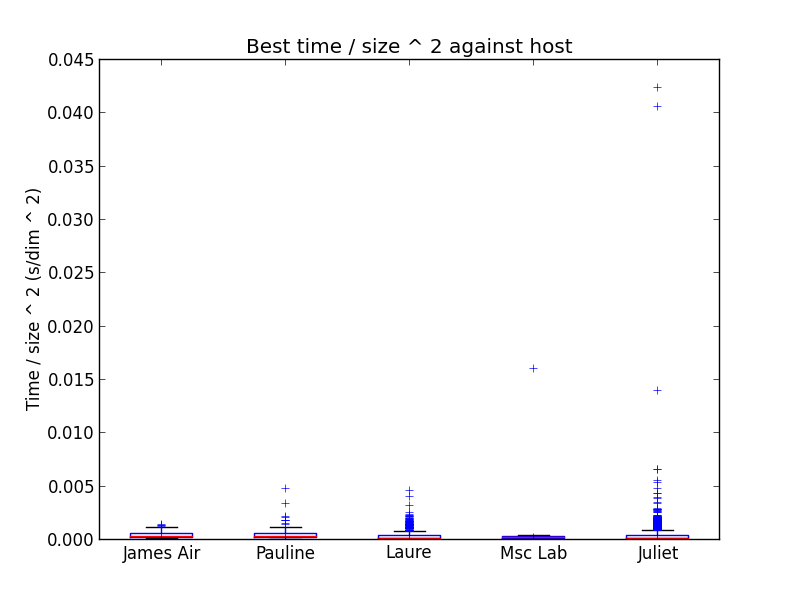
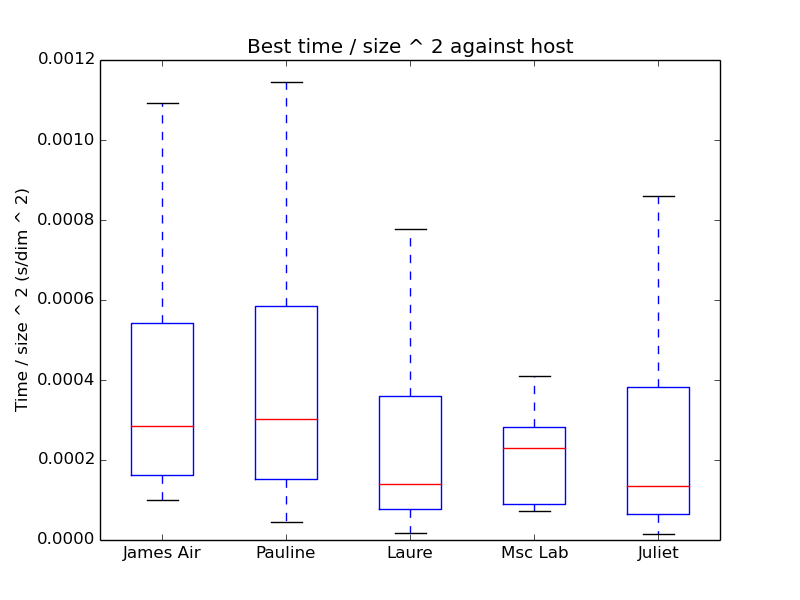
Removed outliers in plots

diff --git a/analysis.py b/analysis.py
@@ -55,7 +55,7 @@ if __name__ == '__main__':
     # plot box plot for time against size for lrs
 
     plt.figure()
-    plt.boxplot([[instance.lrs_time for instance in data if instance.size == k] for k in sizes])
+    plt.boxplot([[instance.lrs_time for instance in data if instance.size == k] for k in sizes], sym='')
     plt.xticks(range(min(sizes), max(sizes) + 1, 5))
     plt.ylabel('time (s)')
     plt.title("time against size (lrs)")
@@ -64,7 +64,7 @@ if __name__ == '__main__':
     # plot box plot for time against size for LCP
 
     plt.figure()
-    plt.boxplot([[instance.LCP_time for instance in data if instance.size == k] for k in sizes])
+    plt.boxplot([[instance.LCP_time for instance in data if instance.size == k] for k in sizes], sym='')
     plt.xticks(range(min(sizes), max(sizes) + 1, 5))
     plt.ylabel('time (s)')
     plt.title("time against size (LCP)")
@@ -73,7 +73,7 @@ if __name__ == '__main__':
     # plot box plot for time against size for enumeration
 
     plt.figure()
-    plt.boxplot([[instance.enum_time for instance in data if instance.size == k] for k in sizes])
+    plt.boxplot([[instance.enum_time for instance in data if instance.size == k] for k in sizes], sym='')
     plt.xticks(range(min(sizes), max(sizes) + 1, 5))
     plt.ylabel('time (s)')
     plt.title("time against size (enum)")
@@ -84,7 +84,7 @@ if __name__ == '__main__':
     plt.figure()
     plt.boxplot([[instance.lrs_time for instance in data],
                  [instance.LCP_time for instance in data],
-                 [instance.enum_time for instance in data]])
+                 [instance.enum_time for instance in data]], sym='')
     plt.xticks([1,2,3], ['lrs', 'lcp', 'enumeration'])
     plt.ylabel('time (s)')
     plt.title("time against approach")
@@ -94,7 +94,7 @@ if __name__ == '__main__':
 
     plt.figure()
     plt.boxplot([[instance.lrs_time for instance in data],
-                 [instance.LCP_time for instance in data]])
+                 [instance.LCP_time for instance in data]], sym='')
     plt.xticks([1,2], ['lrs', 'LCP'])
     plt.ylabel('Time (s)')
     plt.title("Time against approach")
@@ -104,7 +104,7 @@ if __name__ == '__main__':
 
     plt.figure()
     plt.boxplot([[instance.lrs_time / instance.size for instance in data],
-                 [instance.LCP_time / instance.size for instance in data]])
+                 [instance.LCP_time / instance.size for instance in data]], sym='')
     plt.xticks([1,2], ['lrs', 'LCP'])
     plt.ylabel('Time / size (s/dim)')
     plt.title("Time / size against approach")
@@ -114,7 +114,7 @@ if __name__ == '__main__':
 
     plt.figure()
     plt.boxplot([[instance.lrs_time / (instance.size ** 2) for instance in data],
-                 [instance.LCP_time / (instance.size ** 2) for instance in data]])
+                 [instance.LCP_time / (instance.size ** 2) for instance in data]], sym='')
     plt.xticks([1,2], ['lrs', 'LCP'])
     plt.ylabel('Time / size ^ 2 (s/dim ^ 2)')
     plt.title("Time / size ^ 2 against approach")
@@ -123,7 +123,7 @@ if __name__ == '__main__':
     # Size box plot against host
 
     plt.figure()
-    plt.boxplot([[instance.size for instance in data if instance.host == h] for h in hosts])
+    plt.boxplot([[instance.size for instance in data if instance.host == h] for h in hosts], sym='')
     plt.xticks(range(1, len(hosts) + 1), hosts)
     plt.ylabel('Size')
     plt.title("Size against host")
@@ -132,7 +132,7 @@ if __name__ == '__main__':
     # Min time box plot against host
 
     plt.figure()
-    plt.boxplot([[instance.best_time for instance in data if instance.host == h] for h in hosts])
+    plt.boxplot([[instance.best_time for instance in data if instance.host == h] for h in hosts], sym='')
     plt.xticks(range(1, len(hosts) + 1), hosts)
     plt.ylabel('Time (s)')
     plt.title("Best time against host")
@@ -141,7 +141,7 @@ if __name__ == '__main__':
     # Min time / size box plot against host
 
     plt.figure()
-    plt.boxplot([[instance.best_time / instance.size for instance in data if instance.host == h] for h in hosts])
+    plt.boxplot([[instance.best_time / instance.size for instance in data if instance.host == h] for h in hosts], sym='')
     plt.xticks(range(1, len(hosts) + 1), hosts)
     plt.ylabel('Time / size (s/dim)')
     plt.title("Best time / size against host")
@@ -150,7 +150,7 @@ if __name__ == '__main__':
     # Min time / size ^ 2 box plot against host
 
     plt.figure()
-    plt.boxplot([[instance.best_time / (instance.size ** 2) for instance in data if instance.host == h] for h in hosts])
+    plt.boxplot([[instance.best_time / (instance.size ** 2) for instance in data if instance.host == h] for h in hosts], sym='')
     plt.xticks(range(1, len(hosts) + 1), hosts)
     plt.ylabel('Time / size ^ 2 (s/dim ^ 2)')
     plt.title("Best time / size ^ 2 against host")
@@ -159,7 +159,7 @@ if __name__ == '__main__':
     # Number of equilibria against size of game (for games that agree)
 
     plt.figure()
-    plt.boxplot([[len(instance.LCP_output) for instance in data if instance.agree and instance.size == k] for k in sizes])
+    plt.boxplot([[len(instance.LCP_output) for instance in data if instance.agree and instance.size == k] for k in sizes], sym='')
     plt.xticks(range(min(sizes), max(sizes) + 1, 5))
     plt.ylabel('Number of equilibria')
     plt.title("Number of equilibria against size")
@@ -270,7 +270,7 @@ if __name__ == '__main__':
 
     dates = sorted(list(set([instance.date for instance in data])))
     plt.figure()
-    plt.boxplot([[instance.enum_time for instance in data if instance.date == d] for d in dates])
+    plt.boxplot([[instance.enum_time for instance in data if instance.date == d] for d in dates], sym='')
     plt.xticks(range(1, len(dates)+1), [d.strftime("%Y-%m-%d") for d in dates], rotation=70)
     plt.ylabel('time (s)')
     plt.title("Enumeration time against date")
@@ -281,7 +281,7 @@ if __name__ == '__main__':
 
     dates = sorted(list(set([instance.date for instance in data])))
     plt.figure()
-    plt.boxplot([[instance.enum_time for instance in data if instance.date == d and all([5<=k<=10 for k in instance.dim])] for d in dates[4:]])
+    plt.boxplot([[instance.enum_time for instance in data if instance.date == d and all([5<=k<=10 for k in instance.dim])] for d in dates[4:]], sym='')
     plt.xticks(range(1, len(dates[4:])+1), [d.strftime("%Y-%m-%d") for d in dates[4:]], rotation=70)
     plt.ylabel('time (s)')
     plt.title("Enumeration time against date with $5\leq m,n\leq 10$")
